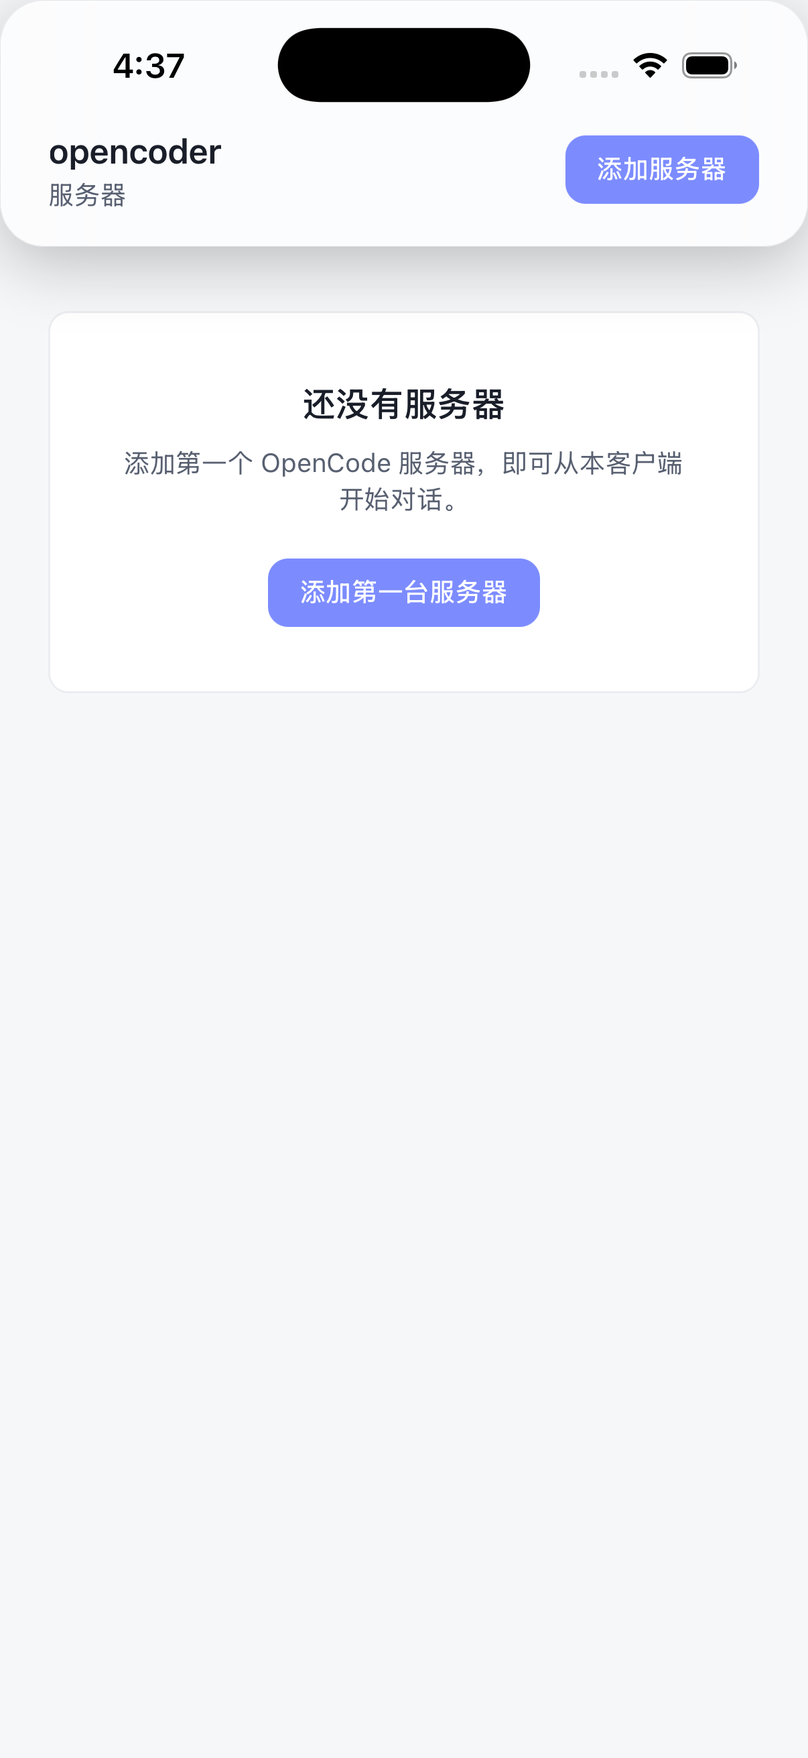
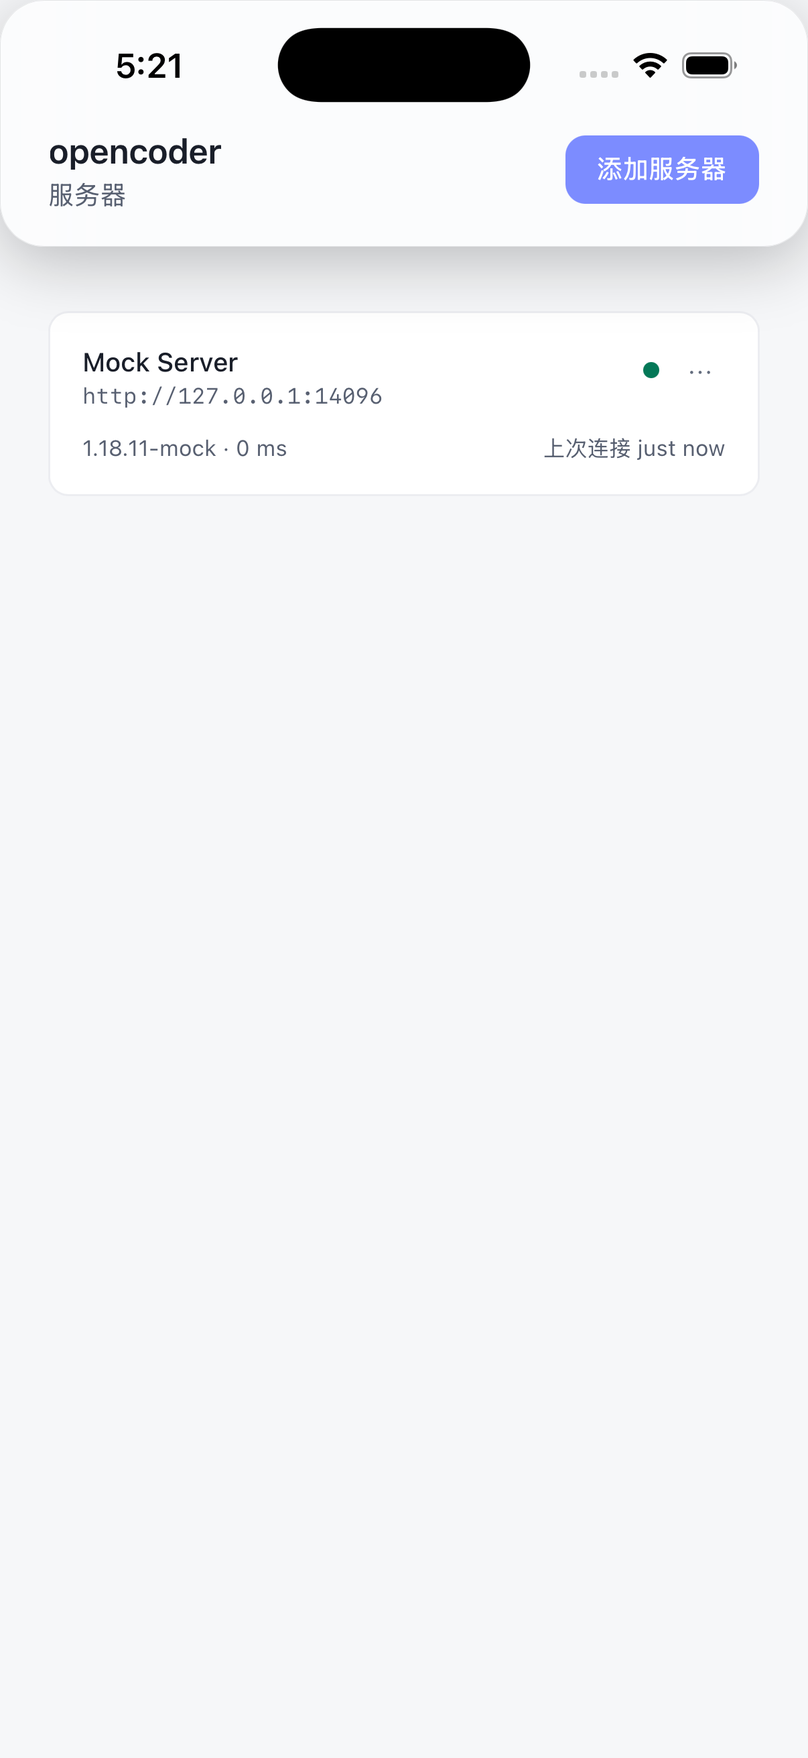
docs: README screenshot fixes and CI link checks (TASK-M10-05)

diff --git a/src-tauri/src/connections/health.rs b/src-tauri/src/connections/health.rs
@@ -202,7 +202,12 @@ impl<R: tauri::Runtime> HealthMonitor<R> {
         let task_token = token.clone();
         let task_state = Arc::clone(&state);
         let task_server_id = server_id.clone();
-        let task = tokio::spawn(async move {
+        // Spawn through tauri's async runtime: it enters the tokio runtime
+        // context before spawning, which raw `tokio::spawn` does not — the
+        // setup hook runs on the main thread outside any runtime context,
+        // so `start_all` panicked ("no reactor running") whenever a
+        // persisted server existed, crashing the app at startup.
+        let task = tauri::async_runtime::spawn(async move {
             monitor_loop(
                 app,
                 task_server_id,
@@ -219,7 +224,7 @@ impl<R: tauri::Runtime> HealthMonitor<R> {
             HealthTask {
                 state,
                 token,
-                abort: task.abort_handle(),
+                abort: task.inner().abort_handle(),
             },
         );
     }

diff --git a/CHANGELOG.md b/CHANGELOG.md
@@ -9,7 +9,7 @@ and this project adheres to [Semantic Versioning](https://semver.org/spec/v2.0.0
 
 ### Added
 
-- README bilingual final (TASK-M10-05): `README.md` and `README-zh.md` rewritten into the full user-facing versions — the hero (name, tagline, CI/license/version badges, language switch), the implemented feature set (multi-server management with health checks + mDNS discovery + QR sharing, dual desktop/mobile shells, full 162-endpoint API coverage, streaming-first chat with tools/reasoning/todos/permissions, files/search/diff/VCS, terminal, Liquid Glass on iOS 26, the mascot pet, en+zh i18n, themes + accents), the server requirements (opencode CLI ≥ v1.18.11 with the exact startup commands — `opencode serve --port 4096`, `--mdns` for LAN discovery, `OPENCODE_SERVER_PASSWORD` for Basic Auth), the five-platform install table (macOS universal dmg / Windows nsis+msi / Linux deb+AppImage from GitHub Releases, iOS via TestFlight/App Store, Android APK from CI — with the honest scaffolding-pending note), the exact implemented shortcut table from `src/features/settings/shortcuts.ts` (⌘K / ⌘N / ⌘P / ⌘⇧F / ⌘1-9 / ⌘[ / ⌘] / ⌘Enter / Esc / ⌘B / ⌘J / ⌘D / ⌘, / Tab / ↑ with the customization note), the updated architecture diagram, the development guide (prereqs, the full script table incl. `check:links`, browser-only `VITE_TRANSPORT=fetch` dev mode, iOS/Android build notes) and the docs map; six real screenshots land in `docs/screenshots/` — four desktop captures driven through the actual UI against the Mock OpenCode Server in light and dark themes (Playwright + the E2E Tauri shim, dev transport) plus two iOS simulator shots (a fresh server-home capture on the booted iPhone 17 / iOS 26.0 simulator and the archived M7-02 Liquid Glass demo); the markdown link checker `scripts/check-links.mjs` — scans README.md / README-zh.md / CONTRIBUTING.md / every top-level docs/*.md for markdown link and image targets, skips external schemes (http(s)/mailto/…) and bare anchors, verifies relative targets case-insensitively (macOS and Linux agree) with `#anchor` suffixes stripped, reports file:line for every broken link and exits 1 — exposed as `pnpm check:links` and wired into `pnpm verify` as the new "L0 links" step (verify is now 11/11).
+- README bilingual final (TASK-M10-05): `README.md` and `README-zh.md` rewritten into the full user-facing versions — the hero (name, tagline, CI/license/version badges, language switch), the implemented feature set (multi-server management with health checks + mDNS discovery + QR sharing, dual desktop/mobile shells, full 162-endpoint API coverage, streaming-first chat with tools/reasoning/todos/permissions, files/search/diff/VCS, terminal, Liquid Glass on iOS 26, the mascot pet, en+zh i18n, themes + accents), the server requirements (opencode CLI ≥ v1.18.11 with the exact startup commands — `opencode serve --port 4096`, `--mdns` for LAN discovery, `OPENCODE_SERVER_PASSWORD` for Basic Auth), the five-platform install table (macOS universal dmg / Windows nsis+msi / Linux deb+AppImage from GitHub Releases, iOS via TestFlight/App Store, Android APK from CI — with the honest scaffolding-pending note), the exact implemented shortcut table from `src/features/settings/shortcuts.ts` (⌘K / ⌘N / ⌘P / ⌘⇧F / ⌘1-9 / ⌘[ / ⌘] / ⌘Enter / Esc / ⌘B / ⌘J / ⌘D / ⌘, / Tab / ↑ with the customization note), the updated architecture diagram, the development guide (prereqs, the full script table incl. `check:links`, browser-only `VITE_TRANSPORT=fetch` dev mode, iOS/Android build notes) and the docs map; six real screenshots land in `docs/screenshots/` — four desktop captures driven through the actual UI against the Mock OpenCode Server in light and dark themes (Playwright + the E2E Tauri shim, dev transport) plus two iOS simulator shots (a fresh servers-home capture on the booted iPhone 17 / iOS 26.0 simulator showing the app connected to the Mock OpenCode Server on the host — which surfaced and fixed a real startup crash: the health monitor spawned its task with raw `tokio::spawn` from the setup hook, where no tokio runtime context exists, so any app with a saved server aborted at launch; it now spawns through `tauri::async_runtime` — and the archived M7-02 Liquid Glass demo); the markdown link checker `scripts/check-links.mjs` — scans README.md / README-zh.md / CONTRIBUTING.md / every top-level docs/*.md for markdown link and image targets, skips external schemes (http(s)/mailto/…) and bare anchors, verifies relative targets case-insensitively (macOS and Linux agree) with `#anchor` suffixes stripped, reports file:line for every broken link and exits 1 — exposed as `pnpm check:links` and wired into `pnpm verify` as the new "L0 links" step (verify is now 11/11).
 
 - Release pipeline (TASK-M10-04): three new scripts — `scripts/check-version.mjs <version>` (asserts the version derived from the release tag matches ALL THREE version sources — package.json / src-tauri/tauri.conf.json / src-tauri/Cargo.toml — exiting 1 with every mismatch; wired into the pipeline before any build runs), `scripts/release-notes.mjs <version> [--out file]` (extracts the `## [X.Y.Z]` section from CHANGELOG.md for the release body, falling back to the `[Unreleased]` section while the version section does not exist yet — TASK-M10-06 renames it — and exiting 1 when neither exists) and `scripts/gen-latest-json.mjs <assets-dir> <tag>` (assembles latest.json for the M8-09 in-app updater from the release's updater artifacts — schema `{ version, notes, pub_date, platforms: { "<os>-<arch>": { signature, url } } }` — with PUBLIC `releases/download/<tag>/<asset>` URLs; platform mapping mirrors tauri-action's uploadUpdaterJson — a universal macOS artifact maps to BOTH darwin-aarch64 and darwin-x86_64, Windows prefers the NSIS zip over MSI, Linux prefers AppImage over deb, and both the legacy `{os}-{arch}` and the new `{os}-{arch}-{bundle}` keys are written; `--require` fails the run when an expected platform is missing); the new `.github/workflows/release.yml` — `v*` tag (or manual workflow_dispatch defaulting to a dry-run that builds the full matrix without touching GitHub) → `version-check` job (resolve the tag, run check-version.mjs, extract the notes, `gh release create --draft` with them) → build matrix (macOS universal app+dmg / Windows x64 nsis+msi / Linux x64 deb+AppImage, the same signing conditions as desktop.yml) where every job uploads its artifacts to the draft release via tauri-apps/tauri-action@v0 (idempotent per tag — the draft created above is found by tag and never modified, each job just adds its assets; `uploadUpdaterJson: false` because the action's native manifest writes api.github.com asset URLs (rate-limited, auth-dependent) while gen-latest-json.mjs uses public download URLs) → finalize job (download the updater assets, require all four platforms, upload latest.json); decisions recorded in docs/tasks/M10.md — the release is always a DRAFT (publishing is the explicit last step of TASK-M10-06; draft assets are not publicly downloadable, so the updater only resolves after publish), tag builds WITHOUT TAURI_SIGNING_PRIVATE_KEY fail fast (updater signatures must match the public key baked into the app; a throwaway CI key only covers dry-runs, whose artifacts never ship), and the build steps deliberately duplicate desktop.yml (GitHub Actions cannot reuse steps across workflow files without composite actions); `pnpm verify` stays 10/10.
 

diff --git a/CHANGELOG-zh.md b/CHANGELOG-zh.md
@@ -9,7 +9,7 @@
 
 ### 新增
 
-- README 双语定稿（TASK-M10-05）：`README.md` 与 `README-zh.md` 重写为完整用户向版本——头部（名称、标语、CI/许可证/版本徽章、语言切换）、已实现功能清单（多服务器管理——健康检查 + mDNS 发现 + 二维码分享；桌面/移动双形态；162 端点完整 API 覆盖；流式聊天——工具/思考/待办/权限；文件、搜索、diff 与 VCS；终端；iOS 26 Liquid Glass；萌宠；en+zh 双语；主题与强调色）、服务端要求（opencode CLI ≥ v1.18.11 与精确启动命令——`opencode serve --port 4096`、`--mdns` 局域网发现、`OPENCODE_SERVER_PASSWORD` Basic Auth）、五平台安装表（macOS universal dmg / Windows nsis+msi / Linux deb+AppImage 来自 GitHub Releases、iOS 走 TestFlight/App Store、Android CI 产 APK——并如实标注脚手架待验证）、快捷键表精确对齐 `src/features/settings/shortcuts.ts` 实现清单（⌘K / ⌘N / ⌘P / ⌘⇧F / ⌘1-9 / ⌘[ / ⌘] / ⌘Enter / Esc / ⌘B / ⌘J / ⌘D / ⌘, / Tab / ↑，含自定义说明）、更新版架构图、开发指南（前置要求、完整脚本表含 `check:links`、纯浏览器 `VITE_TRANSPORT=fetch` 开发模式、iOS/Android 构建说明）与文档地图；六张真实截图落入 `docs/screenshots/`——四张桌面截图以 Playwright + E2E Tauri shim 驱动真实 UI 对接 Mock OpenCode Server、覆盖浅色/深色主题，另两张 iOS 模拟器截图（iPhone 17 / iOS 26.0 上全新拍摄的服务器主页，以及归档的 M7-02 Liquid Glass 演示）；新增 Markdown 链接检查脚本 `scripts/check-links.mjs`——扫描 README.md / README-zh.md / CONTRIBUTING.md / docs 顶层全部 *.md 的链接与图片目标，跳过外部协议（http(s)/mailto/…）与纯锚点，相对路径按大小写不敏感校验（macOS 与 Linux 一致）并剥离 `#anchor` 后缀，逐个以 file:line 报告并 exit 1——暴露为 `pnpm check:links` 并接入 `pnpm verify` 新步骤「L0 links」（verify 现为 11/11）。
+- README 双语定稿（TASK-M10-05）：`README.md` 与 `README-zh.md` 重写为完整用户向版本——头部（名称、标语、CI/许可证/版本徽章、语言切换）、已实现功能清单（多服务器管理——健康检查 + mDNS 发现 + 二维码分享；桌面/移动双形态；162 端点完整 API 覆盖；流式聊天——工具/思考/待办/权限；文件、搜索、diff 与 VCS；终端；iOS 26 Liquid Glass；萌宠；en+zh 双语；主题与强调色）、服务端要求（opencode CLI ≥ v1.18.11 与精确启动命令——`opencode serve --port 4096`、`--mdns` 局域网发现、`OPENCODE_SERVER_PASSWORD` Basic Auth）、五平台安装表（macOS universal dmg / Windows nsis+msi / Linux deb+AppImage 来自 GitHub Releases、iOS 走 TestFlight/App Store、Android CI 产 APK——并如实标注脚手架待验证）、快捷键表精确对齐 `src/features/settings/shortcuts.ts` 实现清单（⌘K / ⌘N / ⌘P / ⌘⇧F / ⌘1-9 / ⌘[ / ⌘] / ⌘Enter / Esc / ⌘B / ⌘J / ⌘D / ⌘, / Tab / ↑，含自定义说明）、更新版架构图、开发指南（前置要求、完整脚本表含 `check:links`、纯浏览器 `VITE_TRANSPORT=fetch` 开发模式、iOS/Android 构建说明）与文档地图；六张真实截图落入 `docs/screenshots/`——四张桌面截图以 Playwright + E2E Tauri shim 驱动真实 UI 对接 Mock OpenCode Server、覆盖浅色/深色主题，另两张 iOS 模拟器截图（iPhone 17 / iOS 26.0 上全新拍摄的服务器主页——应用已连接宿主机上的 Mock OpenCode Server；该拍摄还暴露并修复了一个真实的启动崩溃：健康监控在 setup 钩子中直接用 `tokio::spawn` 派生任务，而 setup 运行在主线程、无 tokio 运行时上下文，导致任何带已保存服务器的应用在启动时即中止；现改为经 `tauri::async_runtime` 派生——以及归档的 M7-02 Liquid Glass 演示）；新增 Markdown 链接检查脚本 `scripts/check-links.mjs`——扫描 README.md / README-zh.md / CONTRIBUTING.md / docs 顶层全部 *.md 的链接与图片目标，跳过外部协议（http(s)/mailto/…）与纯锚点，相对路径按大小写不敏感校验（macOS 与 Linux 一致）并剥离 `#anchor` 后缀，逐个以 file:line 报告并 exit 1——暴露为 `pnpm check:links` 并接入 `pnpm verify` 新步骤「L0 links」（verify 现为 11/11）。
 
 - 发布流水线（TASK-M10-04）：三个新脚本——`scripts/check-version.mjs <version>`（校验发布 tag 推导的版本与**三处**版本源一致——package.json / src-tauri/tauri.conf.json / src-tauri/Cargo.toml——任一不匹配即 exit 1 并列出全部不匹配项；已接入流水线并在任何构建前执行）、`scripts/release-notes.mjs <version> [--out file]`（从 CHANGELOG.md 提取 `## [X.Y.Z]` 版本段作为 Release notes，版本段尚不存在时回退 `[Unreleased]` 段——M10-06 才归集为正式版本段——两段皆无则 exit 1）与 `scripts/gen-latest-json.mjs <assets-dir> <tag>`（从 release 的 updater 产物组装 M8-09 应用内 updater 消费的 latest.json——schema `{ version, notes, pub_date, platforms: { "<os>-<arch>": { signature, url } } }`——URL 用**公开** `releases/download/<tag>/<asset>` 路径；平台映射镜像 tauri-action 的 uploadUpdaterJson——universal macOS 产物同时映射 darwin-aarch64 与 darwin-x86_64、Windows 优先 NSIS zip 其次 MSI、Linux 优先 AppImage 其次 deb，且同时写旧格式 `{os}-{arch}` 键与新格式 `{os}-{arch}-{bundle}` 键；`--require` 缺平台即失败）；新增 `.github/workflows/release.yml`——`v*` tag（或手动 workflow_dispatch，默认 dry-run：全矩阵构建但完全不触碰 GitHub Release）→ `version-check` job（解析 tag、跑 check-version.mjs、提取 notes、`gh release create --draft`）→ 构建矩阵（macOS universal app+dmg / Windows x64 nsis+msi / Linux x64 deb+AppImage，与 desktop.yml 相同的签名条件），每个 job 经 tauri-apps/tauri-action@v0 上传产物到草稿 release（按 tag 幂等——找到上面创建的草稿后不修改其 name/body，仅追加本 job 产物；`uploadUpdaterJson: false`——action 原生清单写 api.github.com 资源 URL（限速且依赖 auth），gen-latest-json.mjs 则用公开下载 URL）→ finalize job（下载 updater 产物、`--require` 四平台、上传 latest.json）；决策已记录于 docs/tasks/M10.md——Release 始终为 **draft**（发布是 M10-06 的显式收尾动作；draft 产物公开不可下载，updater 仅在发布后可用）、tag 构建缺 `TAURI_SIGNING_PRIVATE_KEY` 时快速失败（updater 签名必须匹配 app 内置公钥；一次性 CI 密钥只覆盖 dry-run，其产物绝不发布）、构建步骤与 desktop.yml 有意重复（GitHub Actions 无 composite action 时无法跨文件复用 steps）；`pnpm verify` 保持 10/10 全绿。
 

diff --git a/docs/tasks/M10.md b/docs/tasks/M10.md
@@ -383,3 +383,77 @@ docs/testing.md §3 L1 门槛），通过 `pnpm test:coverage` 独立执行；`p
 - [ ] 双语切换 + 双主题
 - [ ] 快捷键/右键菜单/命令面板（桌面）
 - [ ] 手势/Sheet/触觉（移动）
+
+---
+
+## 附录：TASK-M10-05 截图复现管线（M10-05 修复记录）
+
+截图资产在 `docs/screenshots/`，全部为真实 UI 驱动 Mock OpenCode Server
+（dev transport）或 iOS 模拟器实拍；一键式「再截图」脚本**有意不入库**
+（一次性 Playwright 脚本，避免把测试基建写成维护负担），本附录记录完整
+复现步骤。
+
+### 桌面 4 张（1280×800 @2x → 2560×1600 PNG）
+
+1. 起服务（与 playwright.config.ts 的 webServer 一致）：
+   ```bash
+   pnpm mock:start --cors --port 14096
+   VITE_TRANSPORT=fetch VITE_MOCK_BASE_URL=http://localhost:14096 pnpm dev -- --port 1420
+   ```
+2. 一次性 Playwright 脚本（/tmp 下临时文件，不提交），要点：
+   - `chromium.launch()` + `viewport { width: 1280, height: 800 }` +
+     `deviceScaleFactor: 2`（正好产出 2560×1600）；
+   - `page.addInitScript(readFileSync("tests/e2e/tauri-shim.js"))` ——
+     Tauri IPC shim 注入（服务器注册表/健康监控/SSE 全走内存实现）；
+   - 各截图的旅程 = E2E 旅程（fixtures.ts 的 addServer/enterWorkspace）：
+     - `desktop-home.png`：addServer 后留在服务器主页（卡片 + 健康徽标）；
+     - `desktop-chat.png`：进入工作区打开会话（`sess_01`，happy-chat 流式）；
+     - `desktop-files.png`：侧栏切到 Files（`sidebar-view-files`），展开
+       `src/features/sessions` 打开 `PromptBox.tsx`，等 `viewer-code`
+       非空（shiki 高亮异步到达）再拍；
+     - `desktop-dark-chat.png`：同 chat，截图前设 `localStorage.oc-theme=dark`
+       （或经设置界面切深色）。
+   - `page.screenshot({ path: "docs/screenshots/<名>.png" })`。
+3. 像素校验（不靠肉眼）：PIL 统计全图唯一颜色数 + 区域方差，聊天/文件
+   图应 ≥3000 种唯一色（本次实测：chat 3145 / dark-chat 3938 / files 3660），
+   代码区饱和色像素（shiki token）数千量级；纯空态/白屏会低一个数量级。
+
+### iOS 2 张（iPhone 17 模拟器 / iOS 26.0，1206×2622）
+
+- `ios-glass.png`：归档的 M7-02 Liquid Glass 演示图，非本次重拍。
+- `ios-home.png`（M10-05 修复重拍）：服务器主页，应用已连宿主机上的
+  Mock OpenCode Server（模拟器与宿主共享网络，`127.0.0.1:14096` 直达）。
+  复现步骤：
+  1. 构建并安装（注意 M10-02/03 记录的两个环境坑）：
+     ```bash
+     # rustup 工具链放 PATH 前（Homebrew rust 缺 rust-objcopy 会编不过 build script）
+     PATH="$(rustup which rustc | xargs dirname):$PATH" \
+       pnpm tauri ios build --target aarch64-sim --ci --no-sign
+     rm -rf src-tauri/gen/apple/build   # rename "Directory not empty" 旧坑
+     xcrun simctl install booted src-tauri/gen/apple/build/arm64-sim/opencoder.app
+     ```
+  2. 起 mock（宿主）：`pnpm mock:start --cors --port 14096`。
+  3. 向应用数据容器种子 `servers.json`（store 插件路径 =
+     `$HOME/Library/Application Support/<bundleId>/servers.json`，键为
+     **camelCase**：`id/name/url/username/password/createdAt/
+     lastConnectedAt`；容器路径用
+     `xcrun simctl get_app_container booted com.opencode.opencoder data`）：
+     ```json
+     {"servers":[{"id":"srv_<millis-hex>_0","name":"Mock Server",
+       "url":"http://127.0.0.1:14096","username":null,"password":null,
+       "createdAt":1785920286926,"lastConnectedAt":null}]}
+     ```
+  4. `xcrun simctl launch booted com.opencode.opencoder`，等 ≥35s（健康
+     轮询 15s/次）后 `xcrun simctl io booted screenshot` → 覆盖
+     `docs/screenshots/ios-home.png`。
+  5. 校验：OCR（macOS Vision，一次性 swift 脚本）+ 唯一色数；卡片区应
+     出现 `Mock Server / 1.18.11-mock • N ms`。
+
+**本次修复暴露的真实启动崩溃**：iOS（及裸启桌面二进制）凡存在已保存
+服务器，启动即 SIGABRT——`connections/health.rs` 在 setup 钩子（主线程、
+无 tokio 运行时上下文）里用裸 `tokio::spawn` 派生健康监控任务，必触发
+「no reactor running」panic（单测在 `#[tokio::test]` 内运行、历次实机启动
+注册表皆空，故从未暴露）。修复：改经 `tauri::async_runtime::spawn`
+（内部 `Handle::enter()` 进入运行时上下文），abort 句柄取
+`task.inner().abort_handle()`；桌面复测 40s 内 3 次命中
+`/global/health`，iOS 重拍截图卡片显示 `1.18.11-mock • 0 ms`。

diff --git a/README.md b/README.md
@@ -23,15 +23,15 @@
 
 ## Screenshots
 
-| Desktop — servers home                                     | Desktop — chat                                     | Desktop — chat (dark)                                        |
-| ---------------------------------------------------------- | -------------------------------------------------- | ------------------------------------------------------------ |
-| ![Desktop servers home](docs/screenshots/desktop-home.png) | ![Desktop chat](docs/screenshots/desktop-chat.png) | ![Desktop chat dark](docs/screenshots/desktop-dark-chat.png) |
+| Desktop — servers home                                     | Desktop — chat                                     | Desktop — files                                      | Desktop — chat (dark)                                        |
+| ---------------------------------------------------------- | -------------------------------------------------- | ---------------------------------------------------- | ------------------------------------------------------------ |
+| ![Desktop servers home](docs/screenshots/desktop-home.png) | ![Desktop chat](docs/screenshots/desktop-chat.png) | ![Desktop files](docs/screenshots/desktop-files.png) | ![Desktop chat dark](docs/screenshots/desktop-dark-chat.png) |
 
 | iOS — servers home (iPhone 17, iOS 26)             | iOS — Liquid Glass                                  |
 | -------------------------------------------------- | --------------------------------------------------- |
 | ![iOS servers home](docs/screenshots/ios-home.png) | ![iOS Liquid Glass](docs/screenshots/ios-glass.png) |
 
-Desktop screenshots show the app UI driven by the [Mock OpenCode Server](docs/testing.md) in dev mode; the iOS screenshots were captured on the iPhone 17 simulator (iOS 26.0).
+Desktop screenshots show the app UI driven by the [Mock OpenCode Server](docs/testing.md) in dev mode; the iOS screenshots were captured on the iPhone 17 simulator (iOS 26.0), with the servers home connected to the Mock OpenCode Server on the host (127.0.0.1).
 
 ## Requirements
 

diff --git a/README-zh.md b/README-zh.md
@@ -23,15 +23,15 @@
 
 ## 截图
 
-| 桌面 — 服务器主页                                    | 桌面 — 聊天                                    | 桌面 — 聊天（深色）                                     |
-| ---------------------------------------------------- | ---------------------------------------------- | ------------------------------------------------------- |
-| ![桌面服务器主页](docs/screenshots/desktop-home.png) | ![桌面聊天](docs/screenshots/desktop-chat.png) | ![桌面深色聊天](docs/screenshots/desktop-dark-chat.png) |
+| 桌面 — 服务器主页                                    | 桌面 — 聊天                                    | 桌面 — 文件                                     | 桌面 — 聊天（深色）                                     |
+| ---------------------------------------------------- | ---------------------------------------------- | ----------------------------------------------- | ------------------------------------------------------- |
+| ![桌面服务器主页](docs/screenshots/desktop-home.png) | ![桌面聊天](docs/screenshots/desktop-chat.png) | ![桌面文件](docs/screenshots/desktop-files.png) | ![桌面深色聊天](docs/screenshots/desktop-dark-chat.png) |
 
 | iOS — 服务器主页（iPhone 17 / iOS 26）           | iOS — Liquid Glass                                  |
 | ------------------------------------------------ | --------------------------------------------------- |
 | ![iOS 服务器主页](docs/screenshots/ios-home.png) | ![iOS Liquid Glass](docs/screenshots/ios-glass.png) |
 
-桌面截图展示应用 UI 以开发模式驱动 [Mock OpenCode Server](docs/testing.md) 的实况；iOS 截图拍摄于 iPhone 17 模拟器（iOS 26.0）。
+桌面截图展示应用 UI 以开发模式驱动 [Mock OpenCode Server](docs/testing.md) 的实况；iOS 截图拍摄于 iPhone 17 模拟器（iOS 26.0），其中服务器主页已连接宿主机上的 Mock OpenCode Server（127.0.0.1）。
 
 ## 服务端要求
 
